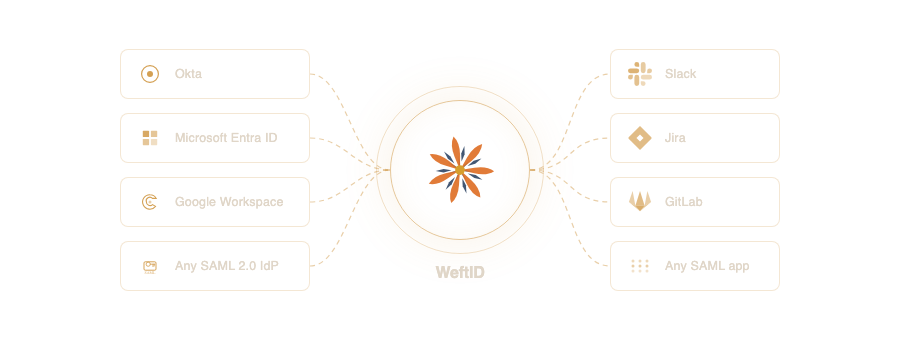
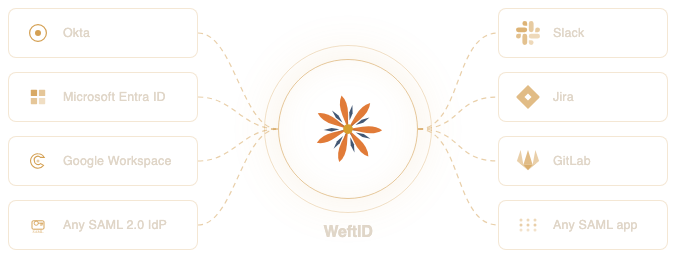
Crop federation diagram and simplify README markup
Auto-crop transparent margins so the diagram fills the available width.
Remove centering wrapper and use width=100%.

diff --git a/README.md b/README.md
@@ -14,13 +14,11 @@ authentication (TOTP, email codes, backup codes), and user lifecycle management.
 
 For more details, see [pageloom.com/products/weft-id](https://pageloom.com/products/weft-id).
 
-<p align="center">
-  <picture>
-    <source media="(prefers-color-scheme: dark)" srcset=".github/assets/federation-overview-dark.png">
-    <source media="(prefers-color-scheme: light)" srcset=".github/assets/federation-overview-light.png">
-    <img alt="WeftID federation overview: identity providers on the left (Okta, Entra ID, Google Workspace, SAML) federated through WeftID to applications on the right (Slack, Jira, GitLab, SAML apps)" src=".github/assets/federation-overview-light.png" width="720">
-  </picture>
-</p>
+<picture>
+  <source media="(prefers-color-scheme: dark)" srcset=".github/assets/federation-overview-dark.png">
+  <source media="(prefers-color-scheme: light)" srcset=".github/assets/federation-overview-light.png">
+  <img alt="WeftID federation overview: identity providers on the left (Okta, Entra ID, Google Workspace, SAML) federated through WeftID to applications on the right (Slack, Jira, GitLab, SAML apps)" src=".github/assets/federation-overview-light.png" width="100%">
+</picture>
 
 **Self-hosting?** See the [self-hosting guide](docs/self-hosting/index.md) for installation,
 configuration, upgrades, and backups.
